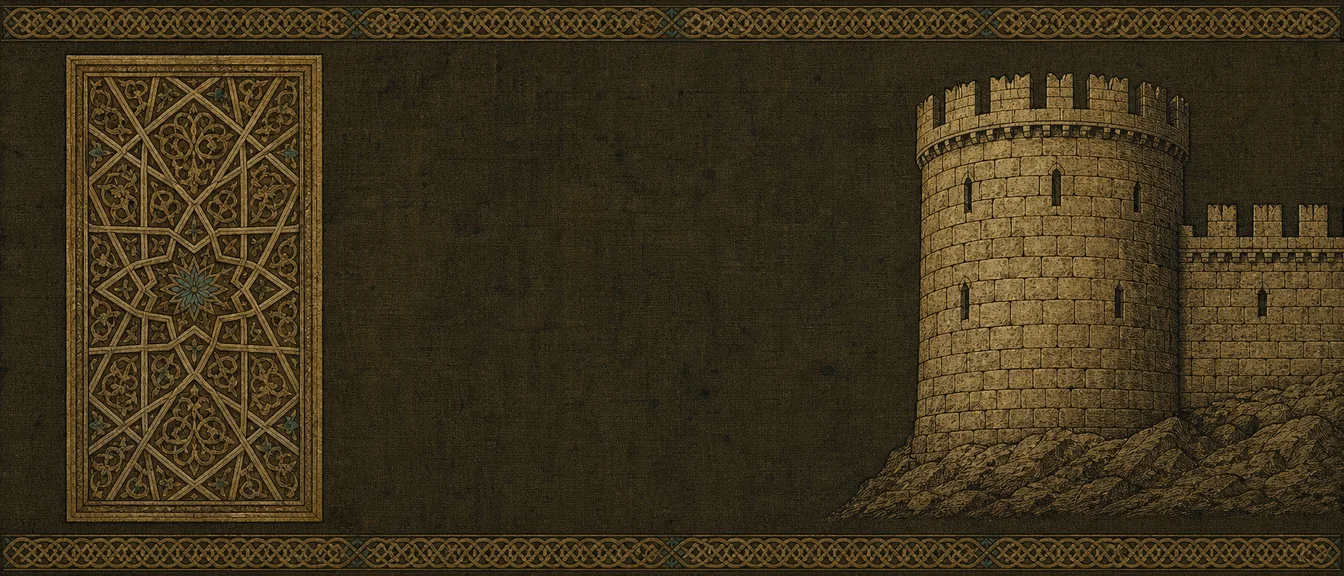
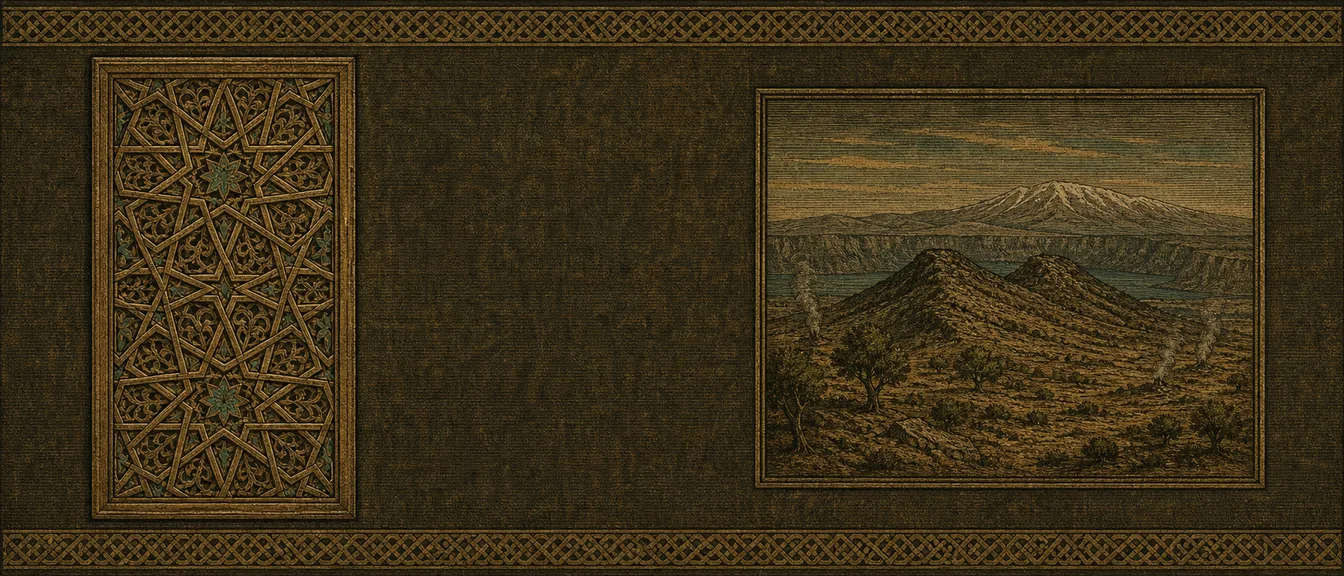
Anoria: Saladin's mat shows the Horns of Hattin in place of the castle tower
Tim had the first mat's citadel tower redrawn: it looked like a European castle and rested on memory. The new mat
keeps Nur al-Din's carved pulpit panel and draws the Horns of Hattin above the Lake of Galilee, with Hermon to the
north and the scrub burning on the plain, as Lane-Poole (1898) describes the field of 1187.

Claude-Session: https://claude.ai/code/session_015uEsRw6hD2rgSarZKYnZDk

diff --git a/games/anoria/ui.js b/games/anoria/ui.js
@@ -1038,7 +1038,7 @@
   //   The seven of the roster of twelve (2026-11-12), what each draws and where it can be read:
   //   shakespeare: Shakespeare's England (Oxford, 1917), vol. 1, Agriculture and Gardening: the 'curious-knotted garden' (Love's Labour's Lost I.i) of box-edged beds laid out with mathematical precision, with Thomas Hill's 'proper knotte'; honeysuckle and 'pansies, that's for thoughts' in its list of Shakespeare's flowers; Desdemona's handkerchief embroidered with strawberries (Othello III.iii). The acorn-and-leaf border as a printer's woodcut ornament rests on memory.
   //   joan: Murray, Jeanne d'Arc, Maid of Orleans (1902), the trial record: 'a banner of which the field was sprinkled with lilies ... it was white, of the white cloth called boccassin ... fringed with silk'; the arms granted to her brothers: 'a shield azure, two fleurs-de-lys of gold, and a sword betwixt', the sword argent, point upward, surmounted by a gilded crown. Left out on purpose: the world, the two angels and 'Jhesus Maria' she also described on it (no figures, no lettering). The swallow-tailed shape of the standard and the lily-powdered ground rest on memory.
-  //   saladin: Lane-Poole, Saladin and the Fall of the Kingdom of Jerusalem (1898): Saladin brought to the Aqsa Mosque 'an exquisite carved pulpit which Nur-ed-din had caused to be designed at Aleppo', and built the Citadel of Cairo on the westernmost spur of the Mukattam. The pulpit's star-and-polygon strapwork and the citadel tower's look (round, bossed limestone, arrow slits, crenellations) rest on memory; the tower reads somewhat generic.
+  //   saladin: Nur al-Din's carved cedar pulpit, which Saladin set up in the Aqsa Mosque in 1187, and the Horns of Hattin above the Lake of Galilee with Hermon snow-streaked to the north and the dry scrub burning, as Lane-Poole, Saladin and the Fall of the Kingdom of Jerusalem (1898), describes the field (the citadel tower of the first mat rested on memory, and Tim had it redrawn); the pulpit's carving rests on memory
   //   wuzetian: Stein, Innermost Asia (1928), vol. 1: silks of the sixth to eighth centuries framing animals, 'single or in pairs, within medallion borders decorated with discs', pairs of confronting creatures woven by turning the pattern over, and a tree between the pair; earlier Chinese silks with a pair of phoenixes. That the phoenix was Wu Zetian's emblem, and the flower rosette, rest on memory.
   //   akbar: Smith, The Moghul Architecture of Fathpur-Sikri (Archaeological Survey of India, 1894), the Turkish Sultana's house: carved red sandstone dado panels, one 'a garden walk ... in the centre is the cypress partly hidden by the branches of an almond tree', another with the pomegranate; and the 'red sandstone jali windows' and pierced stone screens. The exact lattice of the jali is the picture's own.
   //   mansamusa: Dubois, Timbuctoo the Mysterious (1896, trans. 1897): Kankan Musa 'presented the Cathedral Mosque with a minaret of pyramidal form' (the minarets look like 'abbreviated pyramids'); native gold 'in rings', gold-dust, and the salt of Taghaza traded for gold. The wooden toron in the minaret rest on memory (Dubois does not mention them).
@@ -1057,7 +1057,7 @@
     gandhi: { n: 'Homespun and salt', c: '#54493b', th: '#b9aa8c', d: .34 },
     shakespeare: { n: 'The knot garden', c: '#1c2219', th: '#8f8a5c', d: 0.18 },
     joan: { n: 'The Maid\'s standard', c: '#0e1821', th: '#a8894a', d: 0.3 },
-    saladin: { n: 'Cedar and citadel', c: '#2e2716', th: '#a68a4c', d: 0.2 },
+    saladin: { n: 'Cedar and Hattin', c: '#2e2716', th: '#a68a4c', d: 0.2 },
     wuzetian: { n: 'Phoenix silk', c: '#341112', th: '#a9804e', d: 0.05 },
     akbar: { n: 'Red sandstone', c: '#401e1b', th: '#b08a6a', d: 0.04 },
     mansamusa: { n: 'Gold and salt', c: '#372717', th: '#b08d4a', d: 0.12 },
